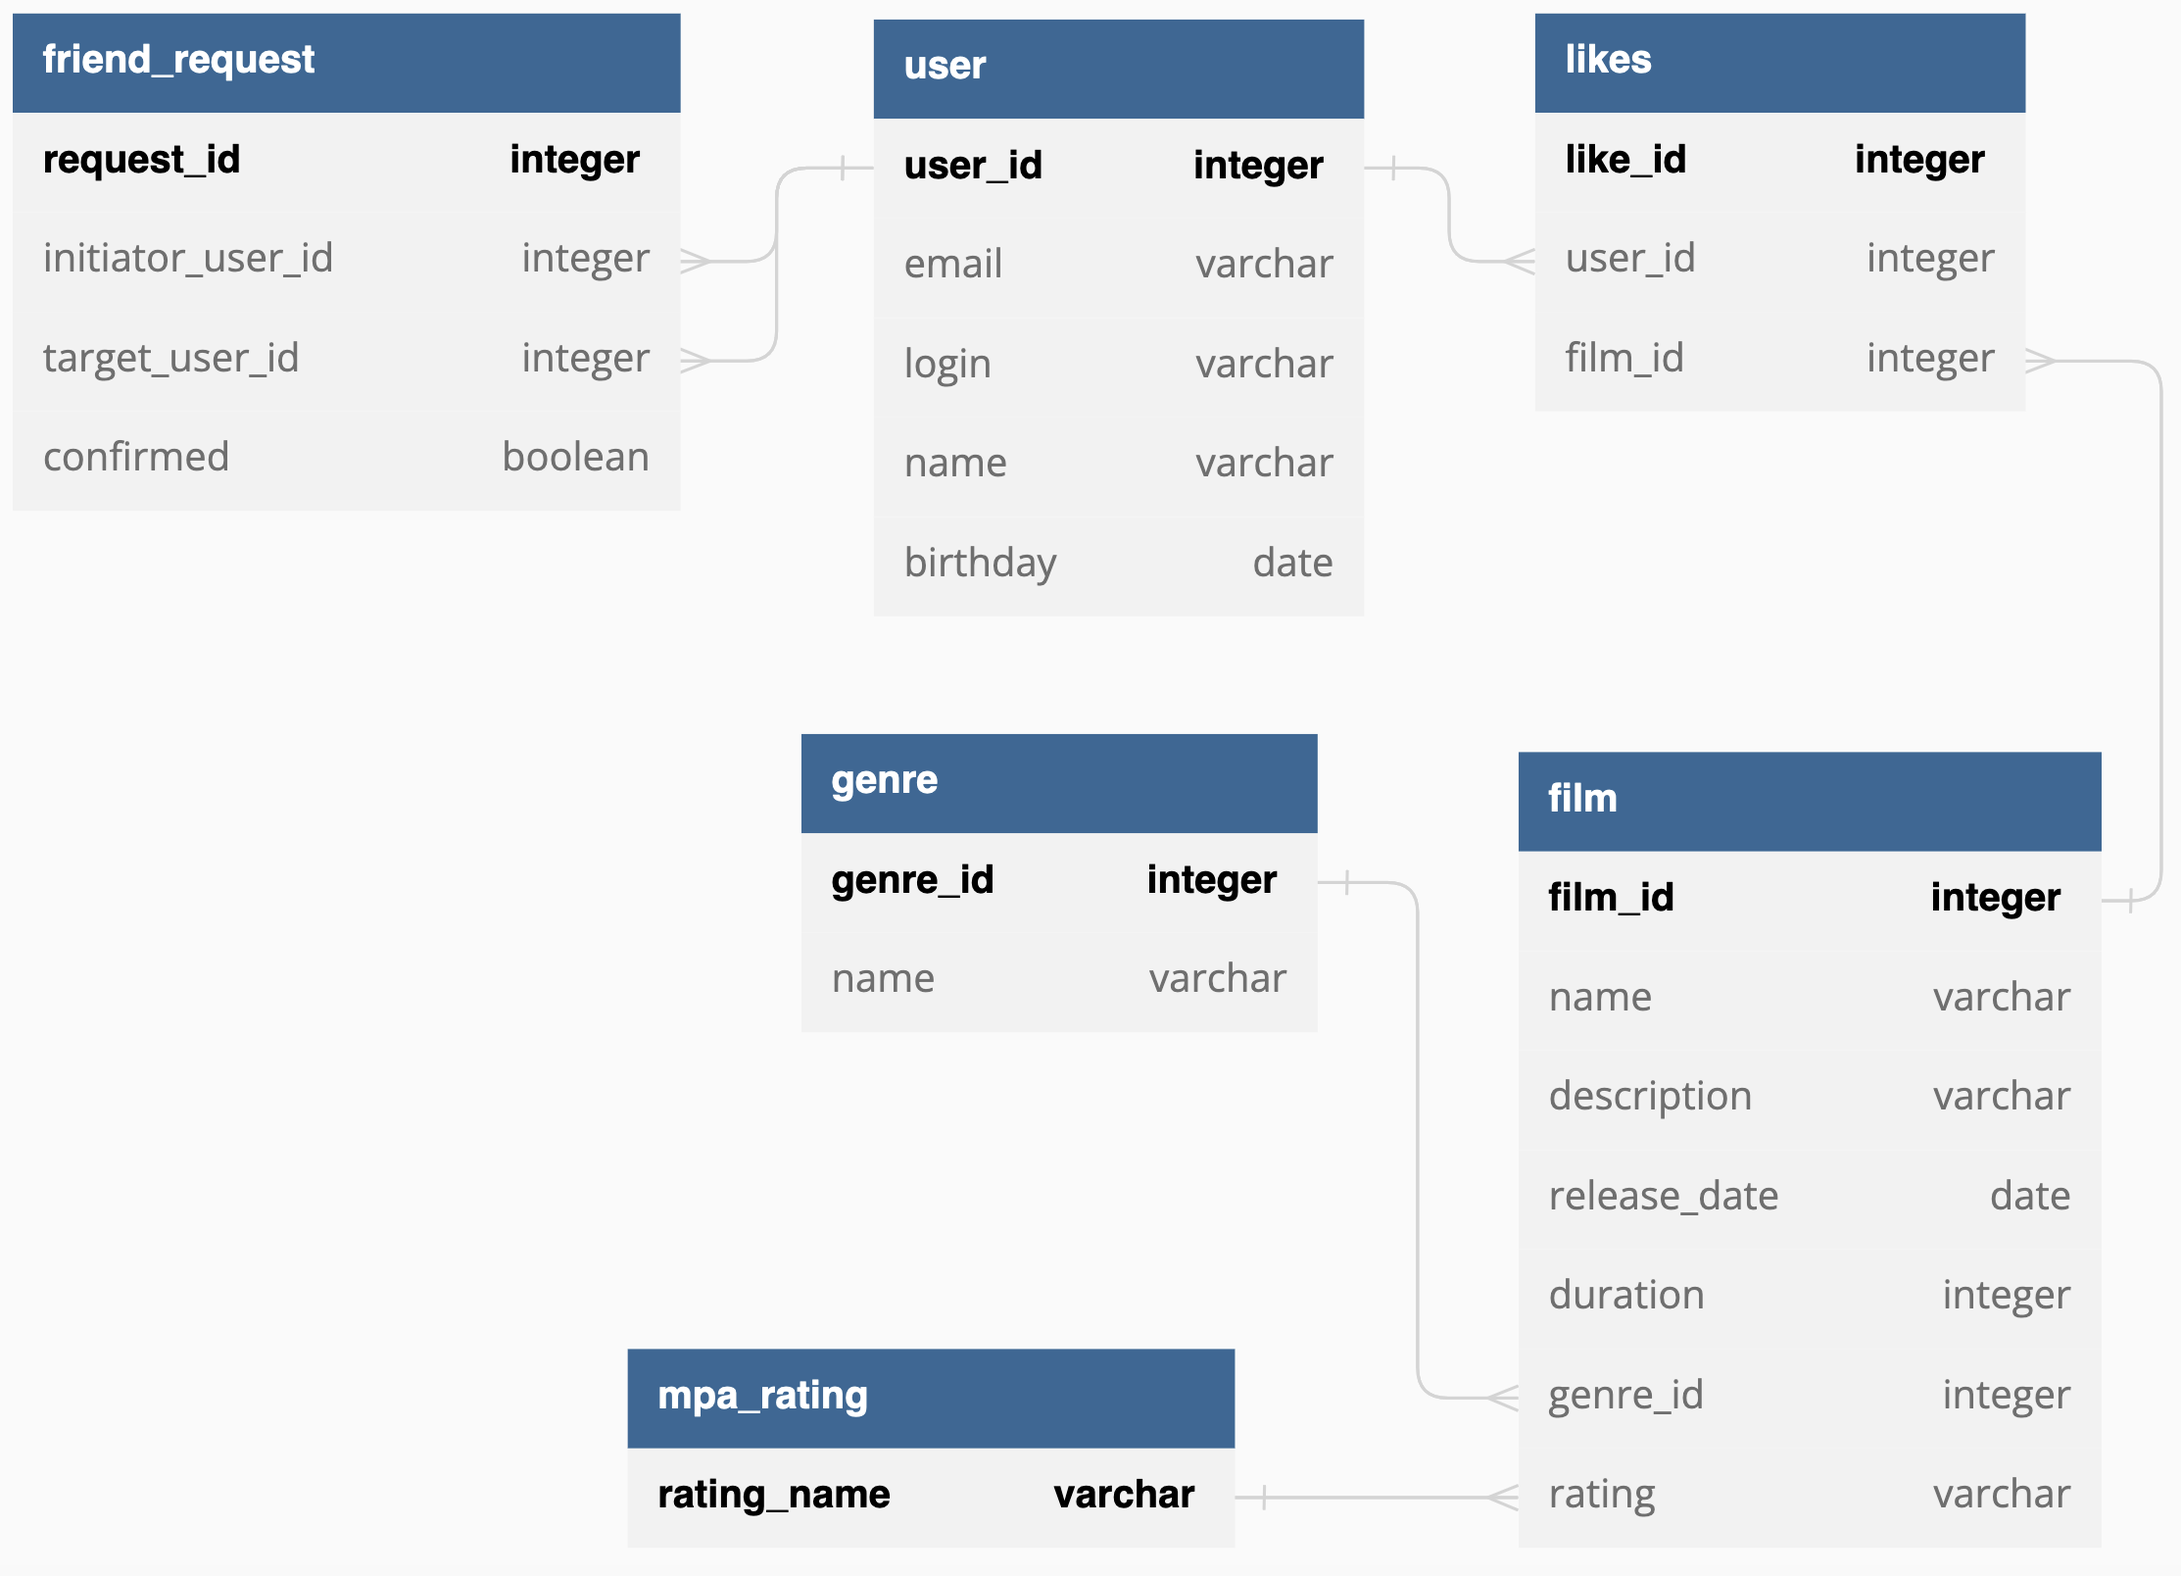
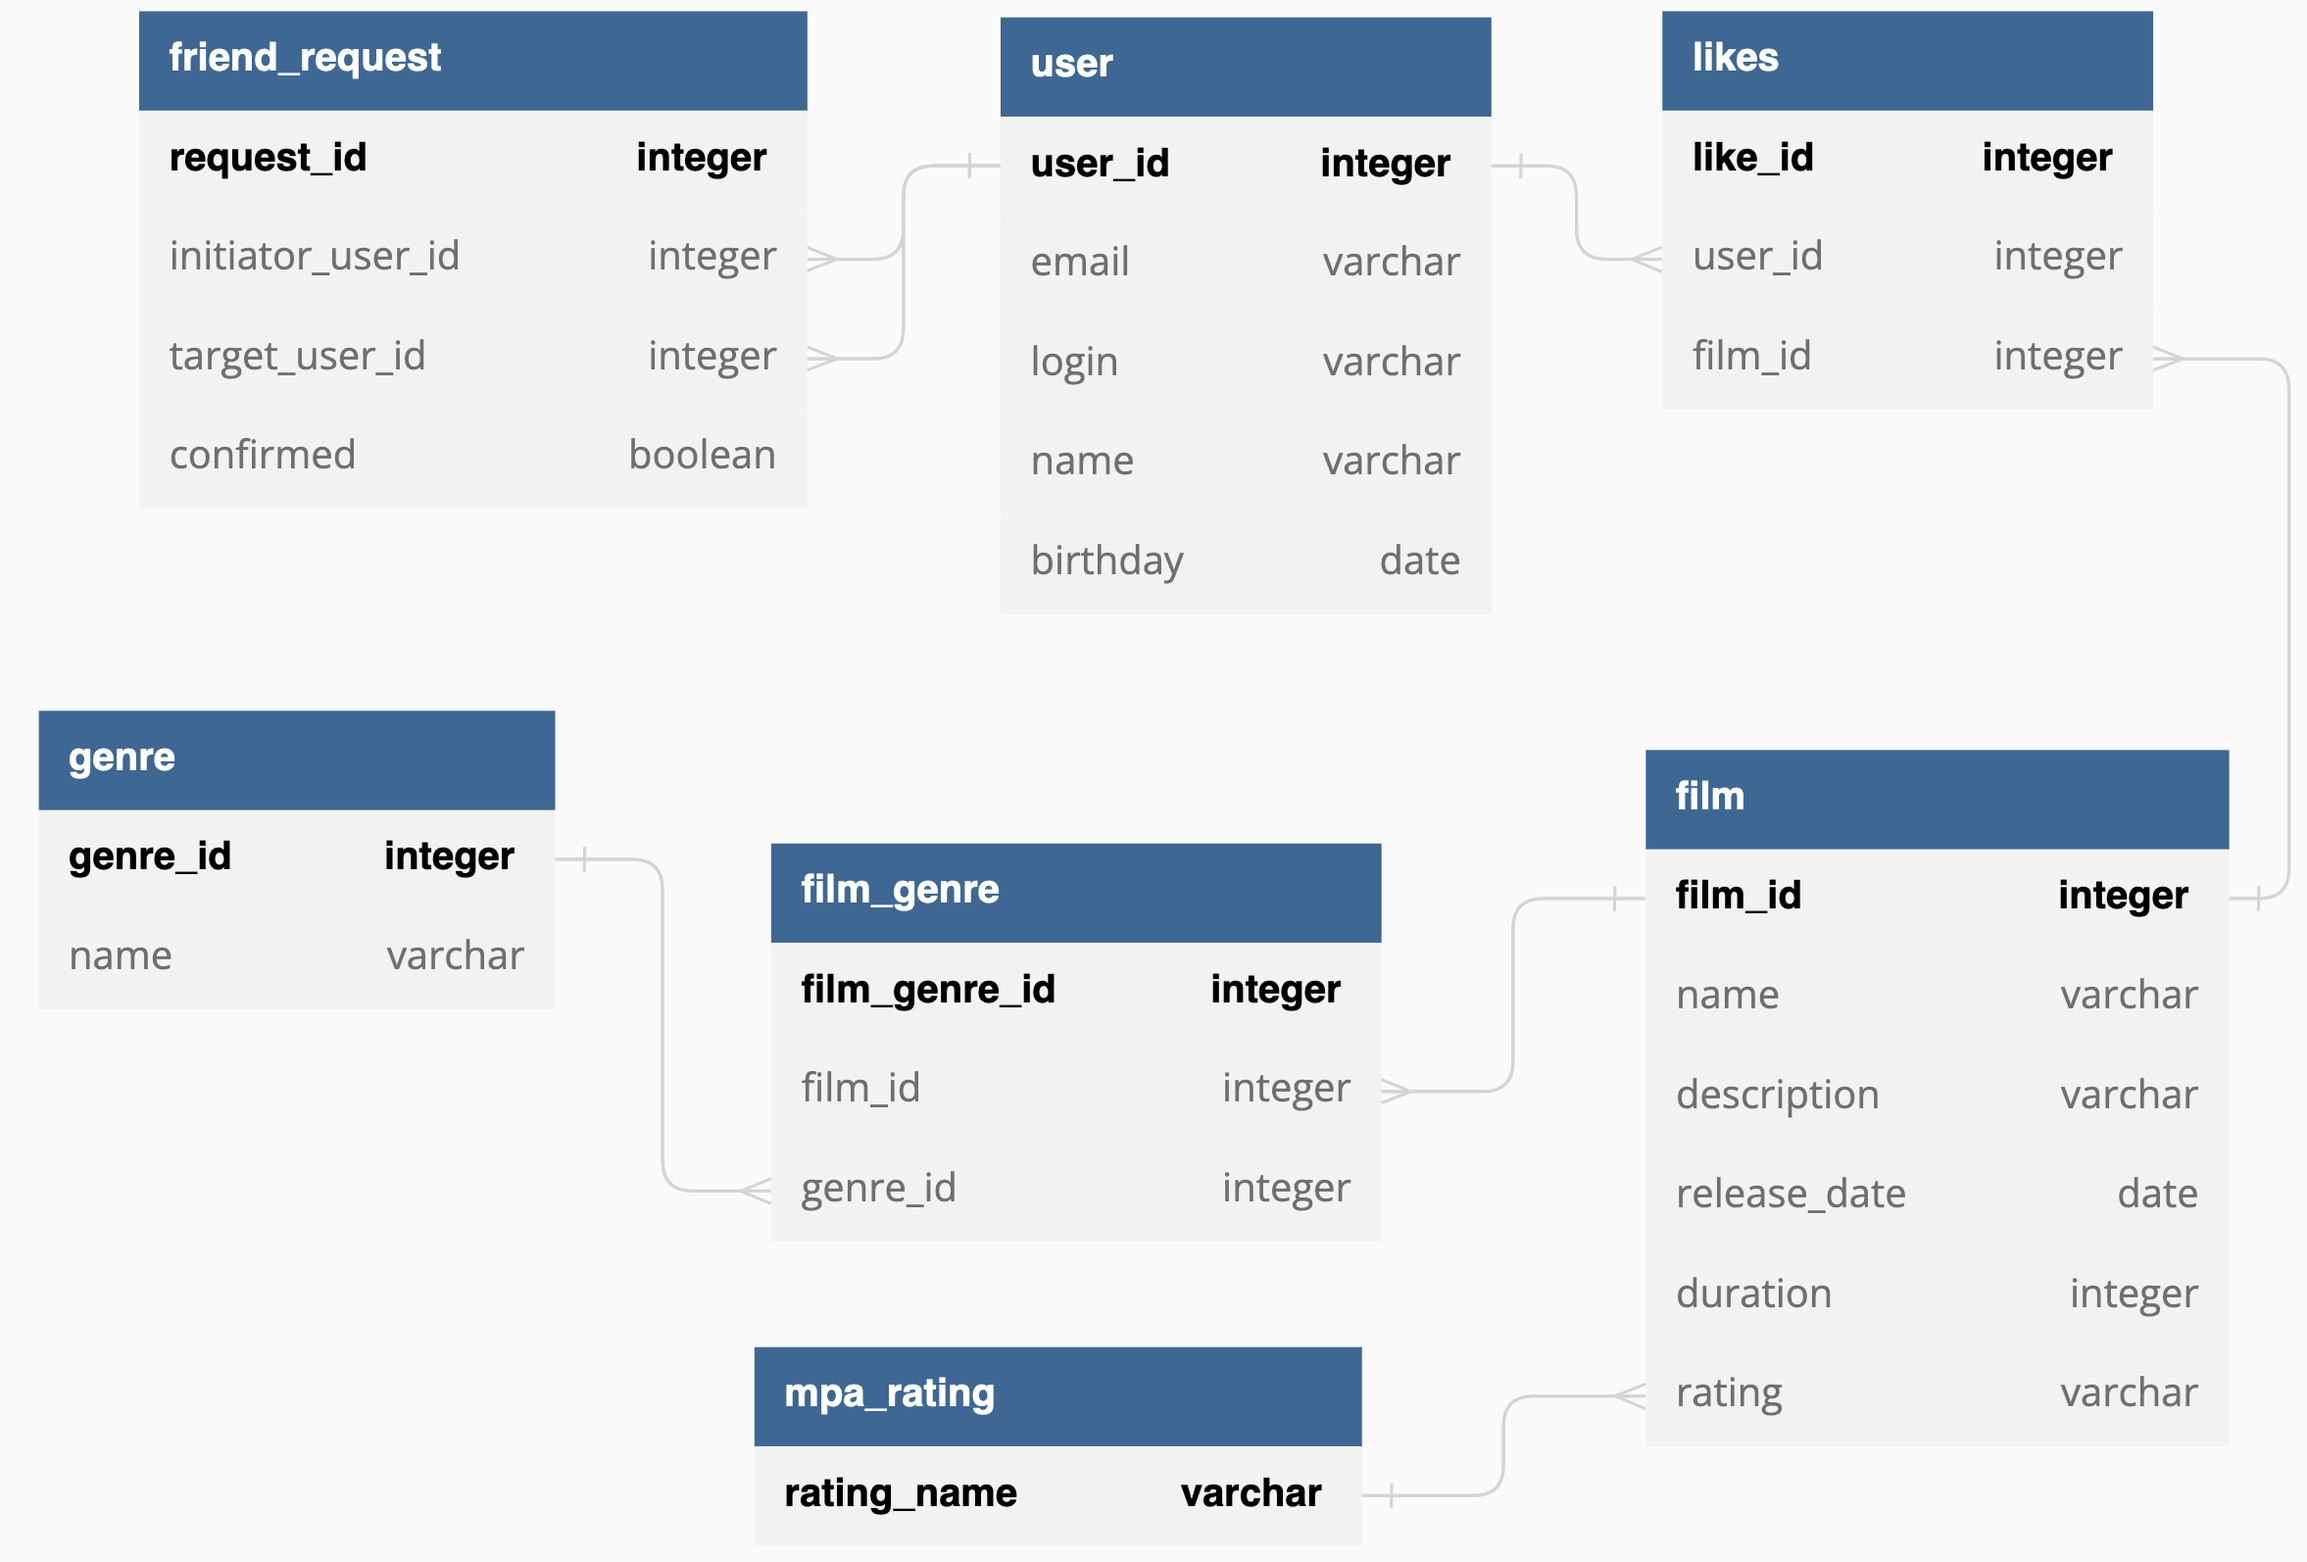
feat: ER & README update

diff --git a/README.md b/README.md
@@ -1,2 +1,58 @@
 # java-filmorate
 Template repository for Filmorate project.
+1.ER-диаграмма![ER-диаграмма приложения Filmorate](ER_Filmorate.png)
+ER-диаграмма реализует минимальные требования по структуре БД. 
+
+`user`
+Содержит данные пользователях:
+
+Первичный ключ `user_id` — идентификатор пользователя;
+`email`— почта;
+`login` — логин;
+`name` — ФИО;
+`birthday` — дата рождения.
+
+`friend_request`
+Содержит данные о добавлении в друзья:
+
+Первичный ключ `request_id` — идентификатор заявки;
+`initiator_user_id`— инициатор запроса;
+`target_user_id` — цель запроса;
+`confirmed` — состояние запроса.
+
+`likes`
+Содержит данные о лайках фильмов:
+
+Первичный ключ `like_id` — идентификатор лайка;
+`user_id`— идентификатор пользователя;
+`film_id` — идентификатор фильма.
+
+`film`
+Содержит данные о фильмах:
+
+Первичный ключ `film_id` — идентификатор фильма;
+`film_id`— идентификатор фильма;
+`name`— название фильма;
+`description`— описание фильма;
+`release_date`— дата релиза фильма;
+`duration`— продолжительность фильма;
+`rating` — идентификатор/название рейтинга.
+
+`mpa_rating`
+Содержит данные о рейтинге Ассоциации кинокомпаний (англ. Motion Picture Association, сокращённо МРА):
+
+Первичный ключ `rating_name` — идентификатор/название рейтинга.
+
+`film_genre`
+Содержит данные о жанре определенного фильма:
+
+Первичный ключ `film_genre_id` — идентификатор жанра фильма;
+`film_id`— идентификатор фильма;
+`genre_id`— идентификатор жанра.
+
+`genre`
+Содержит данные о жанрах фильма:
+
+Первичный ключ `genre_id` — идентификатор жанра фильма;
+`name`— название жанра фильма.
+
